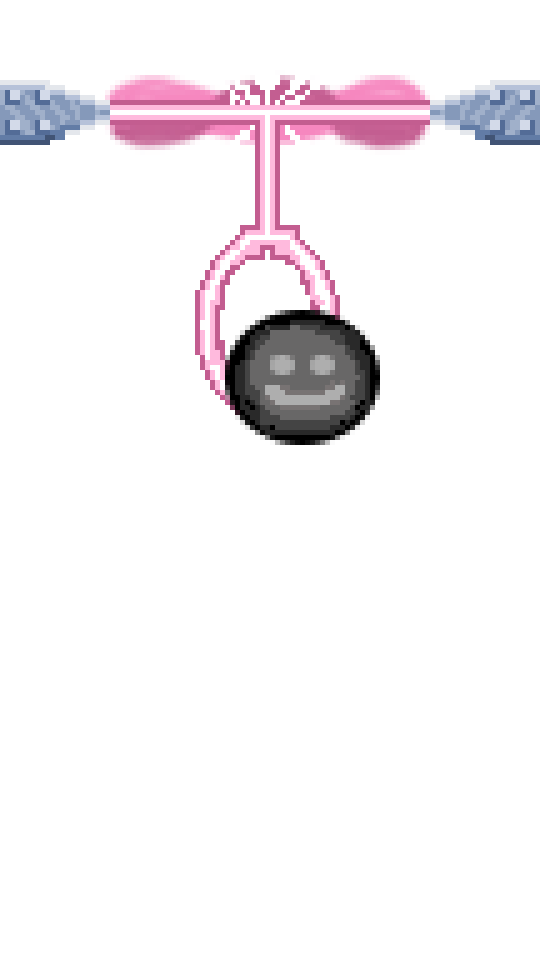
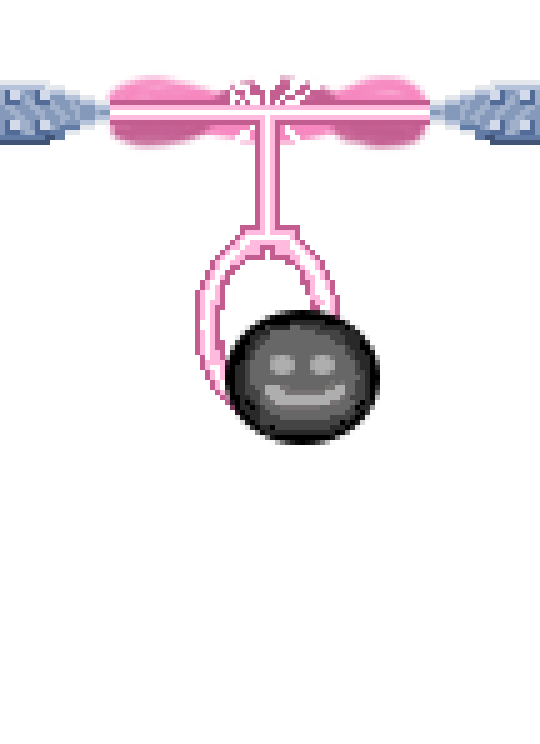
fixed uncropped graphics

Changed region(s): [[0.0, 0.0618, 1.0, 0.6183]]

diff --git a/src/game/Game.css b/src/game/Game.css
@@ -60,6 +60,10 @@
     -fx-background-color: transparent;
 }
 
+#help_text {
+    -fx-font-size: 40px;
+}
+
 
 .label {
     -fx-font-size: 20px;
@@ -90,16 +94,30 @@
     -fx-text-fill: #ffffff;
     -fx-font-family: "Fleftex";
     -fx-background-color: transparent;
+    -fx-alignment: center;
 }
 
 .list-cell:hover {
-    -fx-background-color: #0502af;
+    -fx-effect: innershadow( gaussian , #653fee , 20, 0.7, 0, 0 );
+}
+
+.list-cell:empty:hover {
+    -fx-background-color: transparent;
 }
 
 .list-cell:filled:selected {
-    -fx-text-fill: red;
+    -fx-text-fill: #311e75;
 }
 
 .list-view {
     -fx-background-color: transparent;
+}
+
+.scroll-bar {
+    -fx-fill: transparent;
+    -fx-background-color: transparent;
+}
+
+.scroll-bar > .corner {    
+    -fx-background-color: #2c365d ;
 }

diff --git a/src/game/LoadListView.java b/src/game/LoadListView.java
@@ -4,25 +4,41 @@ import java.io.File;
 
 import javafx.collections.FXCollections;
 import javafx.collections.ObservableList;
+import javafx.geometry.HPos;
+import javafx.geometry.Insets;
+import javafx.geometry.Pos;
+import javafx.geometry.VPos;
+import javafx.scene.control.Label;
 import javafx.scene.control.ListView;
+import javafx.scene.layout.GridPane;
+import javafx.scene.layout.Pane;
 
-public class LoadListView extends ListView<String> {
+public class LoadListView extends GridPane {
 
     private final File dictionaryDir = new File("./medialab");
     private final File[] dictionaryArr = dictionaryDir.listFiles();
     private final double windowWidth, windowHeigth;
     private ObservableList<String> items = FXCollections.observableArrayList();
+    private ListView<String> list = new ListView<String>();
     
     LoadListView(double windowWidth, double windowHeigth) {
 
         this.windowWidth = windowWidth;
         this.windowHeigth = windowHeigth;
+        this.setPadding(new Insets(20, 20, 20, 20));
 
         for (File elem : dictionaryArr) {
             items.add(elem.getName().replace("hangman_", "").replace(".txt", ""));
         }
-        this.setItems(items);
-        this.setPrefSize(windowWidth, windowHeigth - 300);
+        list.setItems(items);
+        list.setPrefSize(windowWidth - 20, windowHeigth - 300);
+
+        Label helpText = new Label("Select Dictionary");
+        helpText.setId("help_text");
+
+        this.add(helpText, 1, 0);
+        GridPane.setHalignment(helpText, HPos.CENTER);
+        this.add(list, 1, 1);
     }
 
 }

diff --git a/src/game/MainMenuGUI.java b/src/game/MainMenuGUI.java
@@ -28,6 +28,7 @@ import javafx.scene.layout.Pane;
 import javafx.scene.transform.Rotate;
 import javafx.scene.transform.Translate;
 import javafx.event.EventHandler;
+import javafx.geometry.Pos;
 import javafx.event.ActionEvent;
 import javafx.util.Duration;
 
@@ -186,6 +187,7 @@ public class MainMenuGUI extends Pane{
                 graphics.getChildren().remove(title);
                 buttons.getChildren().removeAll(button_1, button_2, button_3);
                 thisObj.getChildren().add(list);
+                list.setAlignment(Pos.CENTER);
             }
             
         });
@@ -439,7 +441,7 @@ public class MainMenuGUI extends Pane{
                 if (errorMessage != null) {
                     feedback.setText(errorMessage + "\n Aborting...");
                 } else {
-                    feedback.setText("Choosen book: " + subjectRequester.getResults()[1]);
+                    feedback.setText("Chosen book: " + subjectRequester.getResults()[1]);
                     Timeline loadingOnSucceedAnimation = new Timeline(
                         new KeyFrame(Duration.ZERO, new KeyValue(feedback.opacityProperty(), feedback.getOpacity())),
                         new KeyFrame(new Duration(2000), new KeyValue(feedback.opacityProperty(), 0))
